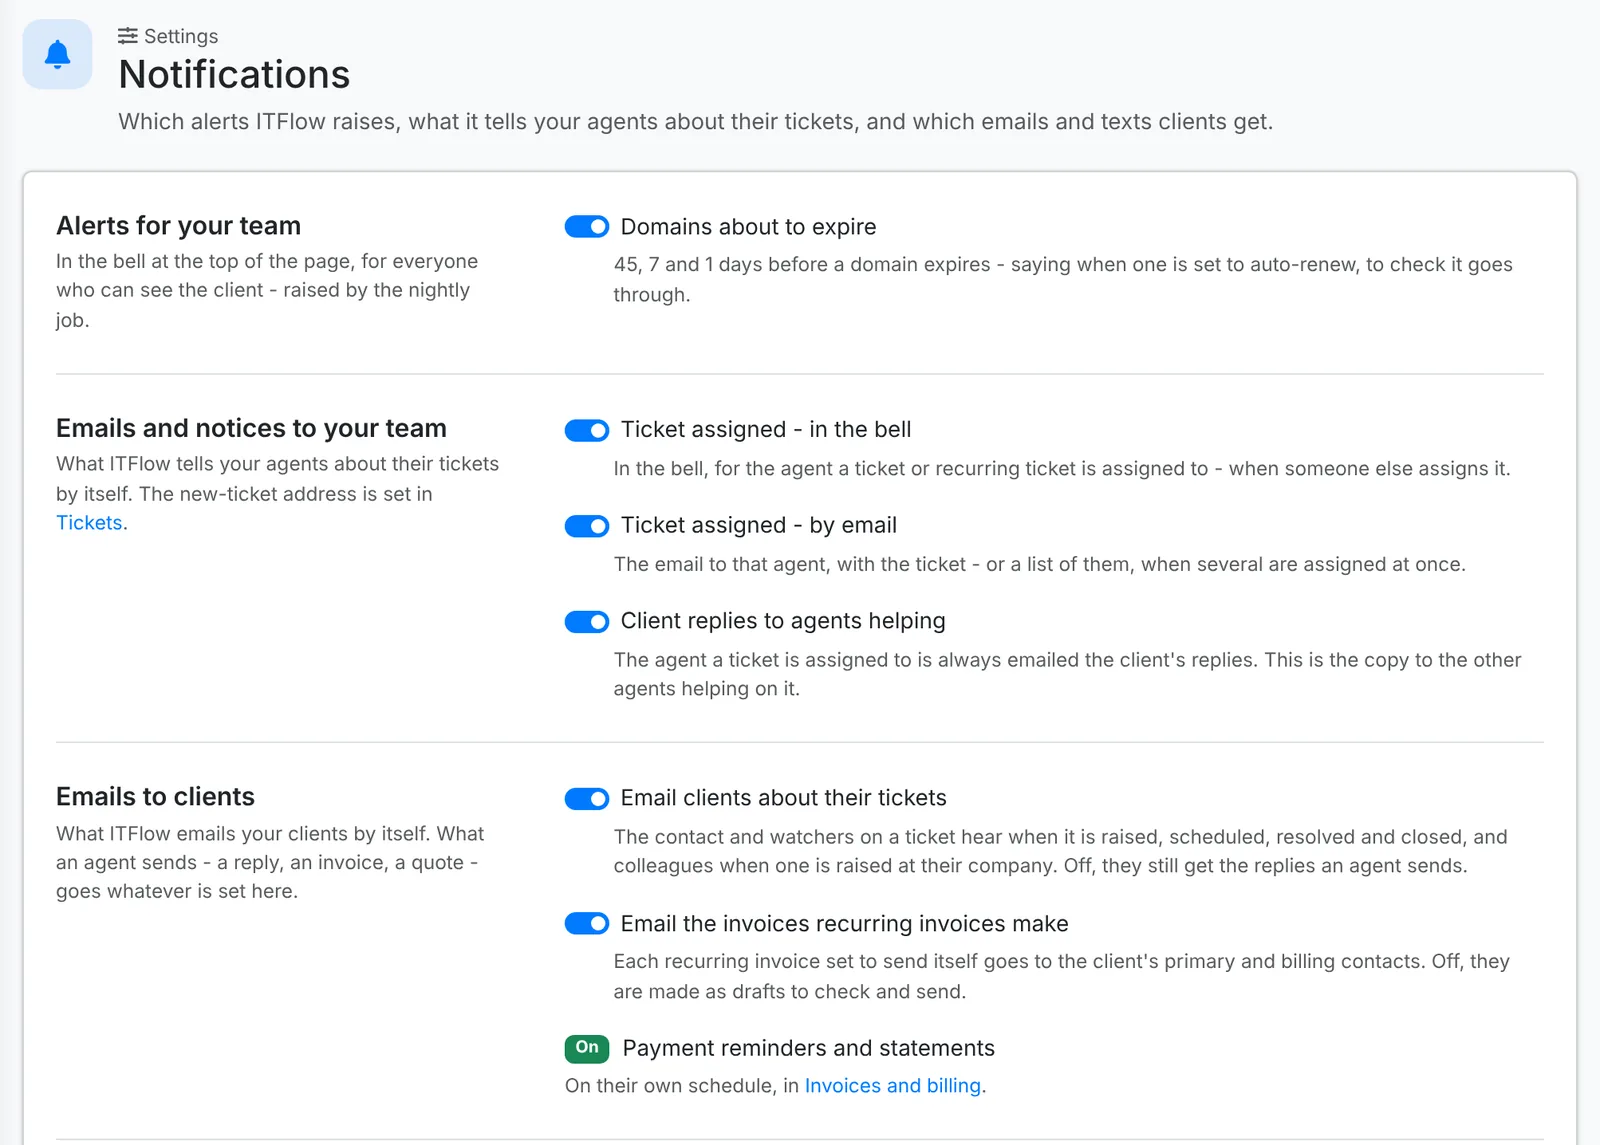
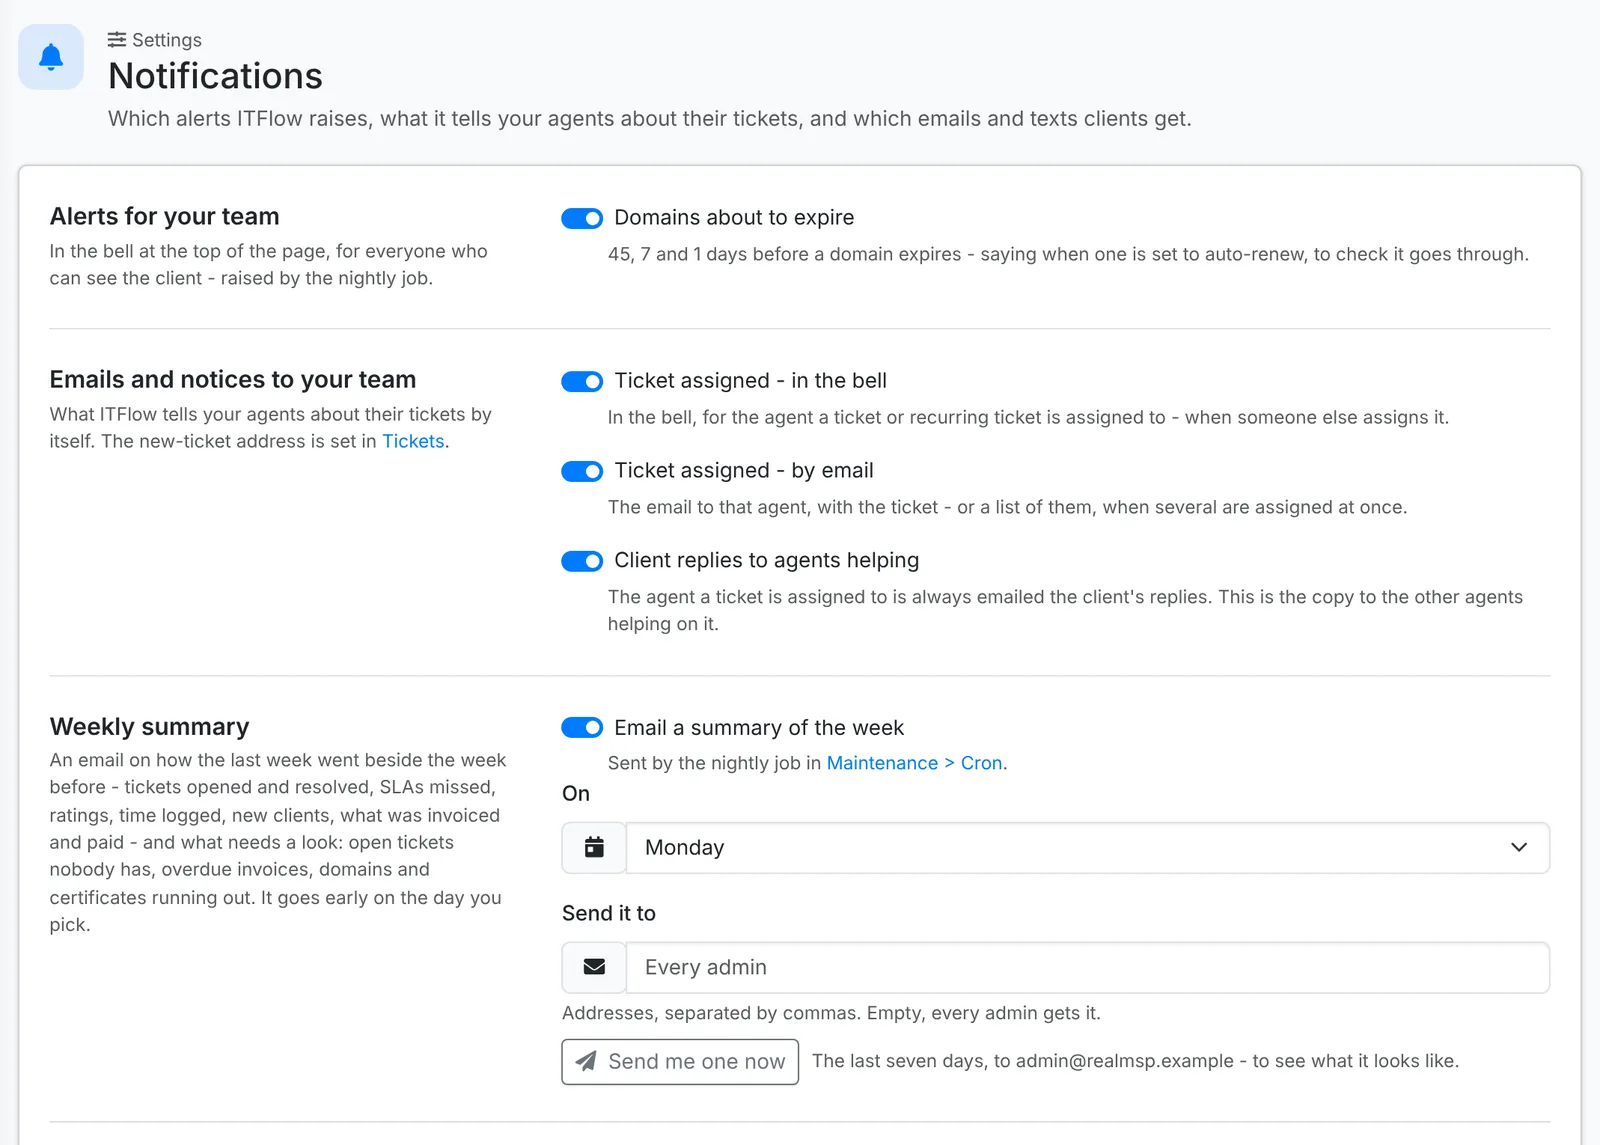
Docs: Users - invite several at once; Tickets - try an email; Mail - the weekly summary; with screenshots

diff --git a/content/admin/mail.md b/content/admin/mail.md
@@ -89,9 +89,22 @@ A ticket's conversation shows the same for each email reply: who it was emailed 
 - **Client replies to agents helping** - the copy of a client's reply that goes to the technicians [helping](/service-desk/working-a-ticket#helpers) on a ticket. The technician it's assigned to is always emailed.
 - **Email clients about their tickets** - the contact and watchers hear when a ticket is raised, scheduled, resolved and closed. Off, they still get the replies your agents send.
 - **Email the invoices recurring invoices make** - off, they're made as drafts to check and send
+- **Email a summary of the week** - for the owners, see [Weekly summary](#weekly-summary) below
 
 Payment reminders and statements have their own schedule, in [Invoices and billing](/admin/billing#reminders-and-statements).
 
+### Weekly summary {#weekly-summary}
+
+Switch on **Email a summary of the week** for an email, early on the day you pick, on how the last seven days went beside the seven before: tickets opened and resolved, SLAs missed, good and not-good ratings, time logged and how much was billable, new clients and - with invoicing on - what was invoiced and paid, with your busiest clients. Under **Needs a look** it lists open tickets nobody has, overdue invoices, and domains and certificates running out in the next 30 days.
+
+- **On** - the day it goes.
+- **Send it to** - addresses, separated by commas. Leave it empty and every admin gets it.
+- **Send me one now** sends you one for the last seven days, to see what it looks like. It's also under **Previews** in [Tests and previews](#tests-and-previews).
+
+![The weekly summary email](adm-weekly-summary.webp "The weekly summary: the week beside the week before, and what needs a look")
+
+It's sent by the nightly job, so cron needs to be running.
+
 Once texting is set up, **Texts to clients** on the same page decides what ITFlow texts clients by itself - see [Text messaging](/admin/text-messaging#texts-to-clients).
 
-![Notification settings](adm-notifications.webp "Notifications: the alerts your team gets, what technicians are told about their tickets, and the emails clients get by themselves")
+![Notification settings](adm-notifications.webp "Notifications: the alerts your team gets, what technicians are told about their tickets, and the weekly summary")

diff --git a/content/admin/tickets.md b/content/admin/tickets.md
@@ -25,6 +25,21 @@ Switch on **Turn emails into tickets**, and an email to your support mailbox bec
 
 Email from someone who isn't a contact, at a domain no client has, is left in the mailbox, flagged and unread - unless you switch on **From unknown senders too**.
 
+#### Try an email {#try-an-email}
+
+To see what an email would become before anyone sends one, click **Try an email**. Type who it's **From** and its **Subject** - a reply to one of your emails has the ticket number in brackets, like `[TCK-123]` - and switch on **It's an automatic reply** for an out-of-office answer. **Try it** goes through what the mailbox asks, in order, and says where it ends up:
+
+- an automatic reply is skipped
+- a ticket number in the subject - a reply on that ticket: the client's reply from its contact or another of the client's contacts, a technician's own note, a watcher's note, or a note with a warning from a stranger, which doesn't reopen it. A closed ticket isn't reopened, and the sender is told.
+- the same subject as an open ticket of theirs from the last week - a reply on that ticket
+- a contact's address - a new ticket for their client
+- an address at a client's domain - a new contact, and their ticket
+- anyone else - a ticket with no client, when unknown senders are let in, or left in the mailbox
+
+![Trying an email](adm-ticket-mail-try.webp "Try an email: each step the mailbox takes, and where the email ends up")
+
+Nothing is made or sent - it uses your saved settings and the contacts, domains and tickets you have now.
+
 ### Text to ticket {#text-to-ticket}
 
 Once [text messaging](/admin/text-messaging) is set up, a text from one of your contacts - from their mobile or phone number - opens a ticket for them. What they text next goes on it as their reply, with any photos attached, and opens it again if it was resolved. A text about a ticket that's being texted on goes on that ticket for two weeks after the last text, while it's open.

diff --git a/content/admin/users.md b/content/admin/users.md
@@ -34,6 +34,19 @@ They get an email from you with **Accept the invite**. Until they use it, they'r
 
 **Set a password now** is still there, if you'd rather: type one, or make one up with the wand, and give it to them yourself - nothing is emailed. They should change it once they're in.
 
+### Invite several at once {#invite-several}
+
+For a few new starters, or a whole team moving to ITFlow, pick **Invite several** from the menu beside **New User**:
+
+1. Under **Who**, put one person on each line - `Jane Doe, jane@example.com`, `Sam Lee <sam@example.com>`, or just the email, and the name is made from it (`alex.morgan@example.com` becomes Alex Morgan). Up to 50 at a time.
+2. Pick the **Role** they all get, and the **Office** if you have more than one.
+3. Switch on **Require multi-factor authentication** if they should all set up two-step sign-in.
+4. Click **Send invites**.
+
+![Invite several users at once](adm-user-invite-bulk.webp "Invite several: one per line, all with the same role")
+
+Each gets their own invite email, as from **New User**. Anyone who already has an account, or a line with no email address in it, is skipped, and the message says which. If you run out of seats part way, the rest aren't invited. Limit someone to some clients from their **Client access** once they've joined. It needs email set up - without it, invite them one at a time to get each link.
+
 ### Joining
 
 The link opens a page that says who invited them and as what. They check their name, choose a password - twice - and click **Join**. From then they're an agent with the role, two-step sign-in and clients you set, and sign in on the usual page. You're notified in ITFlow, and their quick look says whose invite they joined from.
